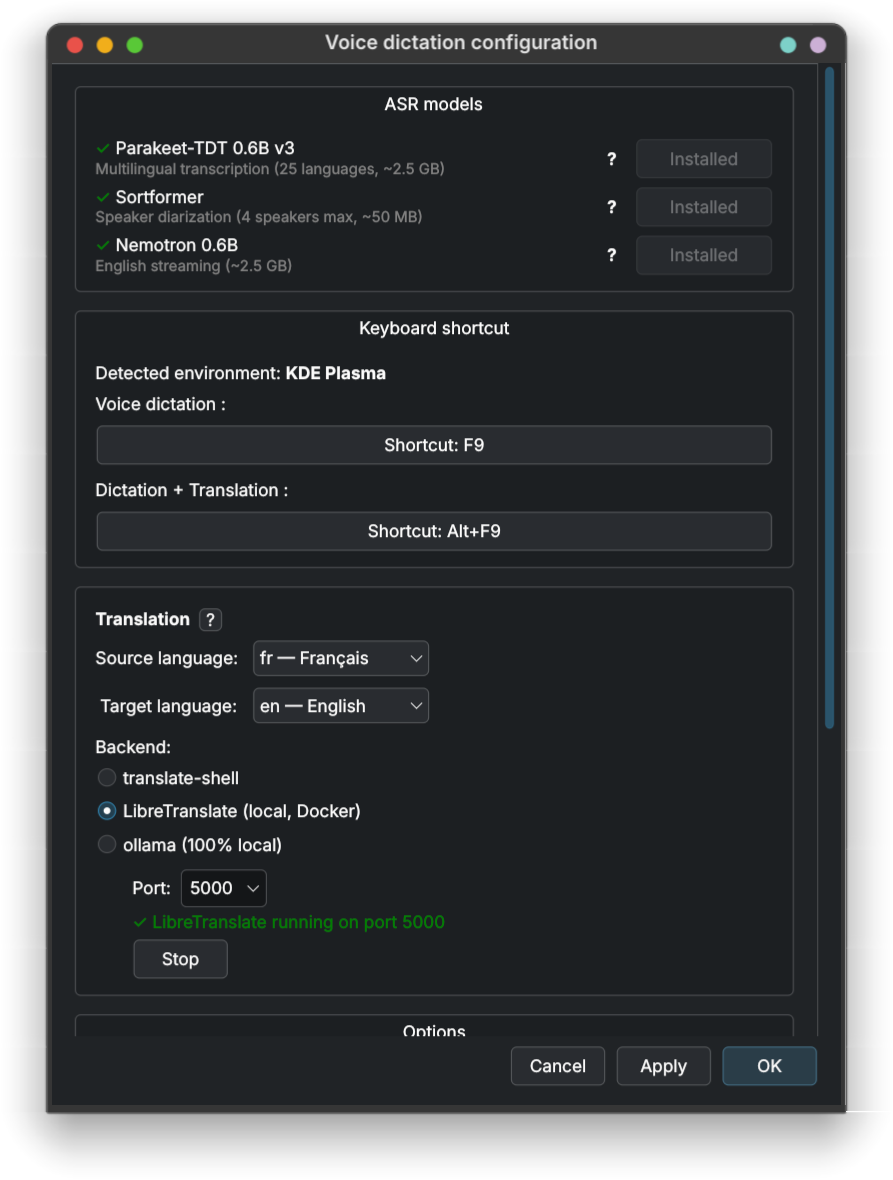
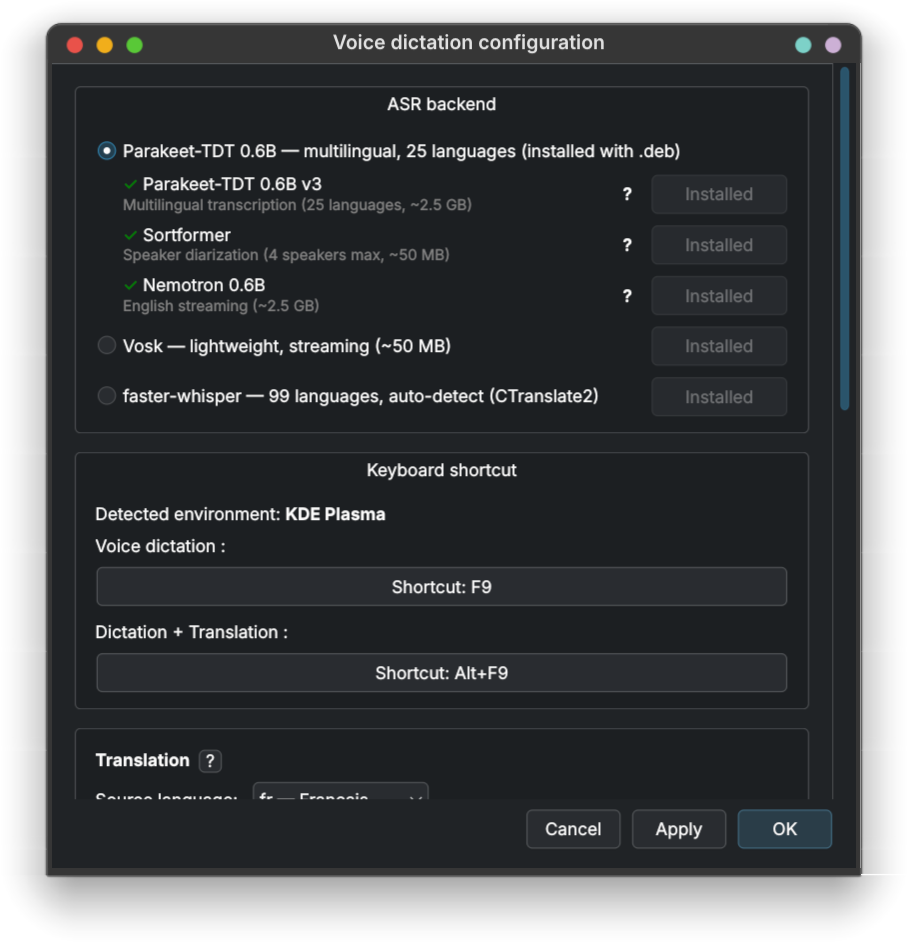
ui: intégrer modèles Parakeet sous le radio backend, masquer sous-options inactives
- Déplacer les modèles TDT/Sortformer/Nemotron sous le bouton radio Parakeet
- Masquer les sous-options Vosk/Whisper quand non sélectionnés
- Augmenter largeur minimale fenêtre (620→700)
- Mettre à jour screenshot anglaise

diff --git a/dictee-setup.py b/dictee-setup.py
@@ -954,8 +954,8 @@ class DicteeSetupDialog(QDialog):
     def __init__(self):
         super().__init__()
         self.setWindowTitle(_("Voice dictation configuration"))
-        self.setMinimumWidth(520)
-        self.resize(600, 650)
+        self.setMinimumWidth(620)
+        self.resize(700, 700)
         self.setWindowIcon(QIcon.fromTheme("audio-input-microphone"))
         self.de_name, self.de_type = detect_desktop()
         self._install_thread = None
@@ -976,53 +976,8 @@ class DicteeSetupDialog(QDialog):
         layout.setSpacing(16)
         layout.setContentsMargins(20, 20, 20, 16)
 
-        # -- Section modèles ASR --
-        grp_models = QGroupBox(_("ASR models"))
-        lay_mod = QVBoxLayout(grp_models)
-        lay_mod.setSpacing(6)
-        lay_mod.setContentsMargins(16, 16, 16, 12)
-
         self._model_widgets = {}
         self._model_threads = {}
-
-        for model in ASR_MODELS:
-            row = QHBoxLayout()
-            row.setSpacing(8)
-
-            installed = model_is_installed(model)
-            required = _(" (required)") if model["required"] else ""
-
-            lbl = QLabel()
-            icon = '<span style="color: green;">✓</span>' if installed \
-                else '<span style="color: orange;">⚠</span>'
-            line2 = model["desc"] + (required if not installed else "")
-            lbl.setText(f'{icon} {model["name"]}<br>'
-                        f'<span style="font-size: 9.5pt; color: gray;">{line2}</span>')
-            lbl.setWordWrap(True)
-            row.addWidget(lbl, 1)
-
-            btn_info = QPushButton("?")
-            btn_info.setFixedSize(24, 24)
-            btn_info.setToolTip(model["help"])
-            btn_info.setStyleSheet("font-weight: bold; border-radius: 12px;")
-            btn_info.clicked.connect(lambda checked, m=model: QMessageBox.information(
-                self, m["name"], m["help"]))
-            row.addWidget(btn_info)
-
-            btn = QPushButton(_("Download") if not installed else _("Installed"))
-            btn.setEnabled(not installed)
-            btn.setFixedWidth(120)
-            row.addWidget(btn)
-
-            lay_mod.addLayout(row)
-
-            progress = QProgressBar()
-            progress.setRange(0, 0)
-            progress.setVisible(False)
-            lay_mod.addWidget(progress)
-
-            self._model_widgets[model["id"]] = {"label": lbl, "button": btn, "progress": progress, "model": model}
-            btn.clicked.connect(lambda checked, m=model: self._on_model_download(m))
 
         # -- Section raccourci --
         grp_shortcut = QGroupBox(_("Keyboard shortcut"))
@@ -1086,8 +1041,6 @@ class DicteeSetupDialog(QDialog):
             lbl_unsup.setWordWrap(True)
             lay_sc.addWidget(lbl_unsup)
 
-        layout.addWidget(grp_models)
-
         # -- Section backend ASR --
         grp_asr = QGroupBox(_("ASR backend"))
         lay_asr = QVBoxLayout(grp_asr)
@@ -1105,6 +1058,47 @@ class DicteeSetupDialog(QDialog):
         self.asr_group.addButton(self.rb_parakeet)
         lay_asr.addWidget(self.rb_parakeet)
 
+        # Modèles Parakeet (indentés sous le radio)
+        for model in ASR_MODELS:
+            row = QHBoxLayout()
+            row.setSpacing(8)
+            row.setContentsMargins(24, 0, 0, 0)
+
+            installed = model_is_installed(model)
+            required = _(" (required)") if model["required"] else ""
+
+            lbl = QLabel()
+            icon = '<span style="color: green;">✓</span>' if installed \
+                else '<span style="color: orange;">⚠</span>'
+            line2 = model["desc"] + (required if not installed else "")
+            lbl.setText(f'{icon} {model["name"]}<br>'
+                        f'<span style="font-size: 9.5pt; color: gray;">{line2}</span>')
+            lbl.setWordWrap(True)
+            row.addWidget(lbl, 1)
+
+            btn_info = QPushButton("?")
+            btn_info.setFixedSize(24, 24)
+            btn_info.setToolTip(model["help"])
+            btn_info.setStyleSheet("font-weight: bold; border-radius: 12px;")
+            btn_info.clicked.connect(lambda checked, m=model: QMessageBox.information(
+                self, m["name"], m["help"]))
+            row.addWidget(btn_info)
+
+            btn = QPushButton(_("Download") if not installed else _("Installed"))
+            btn.setEnabled(not installed)
+            btn.setFixedWidth(120)
+            row.addWidget(btn)
+
+            lay_asr.addLayout(row)
+
+            progress = QProgressBar()
+            progress.setRange(0, 0)
+            progress.setVisible(False)
+            lay_asr.addWidget(progress)
+
+            self._model_widgets[model["id"]] = {"label": lbl, "button": btn, "progress": progress, "model": model}
+            btn.clicked.connect(lambda checked, m=model: self._on_model_download(m))
+
         # Vosk
         row_vosk = QHBoxLayout()
         self.rb_vosk = QRadioButton("Vosk — " + _("lightweight, streaming (~50 MB)"))
@@ -1121,8 +1115,9 @@ class DicteeSetupDialog(QDialog):
         lay_asr.addLayout(row_vosk)
 
         # Sous-options Vosk : choix de langue
-        self.vosk_options = QHBoxLayout()
-        self.vosk_options.setContentsMargins(24, 0, 0, 0)
+        self.w_vosk_options = QWidget()
+        vosk_lay = QHBoxLayout(self.w_vosk_options)
+        vosk_lay.setContentsMargins(24, 0, 0, 0)
         lbl_vosk_lang = QLabel(_("Language:"))
         self.cmb_vosk_lang = QComboBox()
         for code, name in VOSK_MODELS.items():
@@ -1131,10 +1126,11 @@ class DicteeSetupDialog(QDialog):
         idx = self.cmb_vosk_lang.findData(cur_vosk)
         if idx >= 0:
             self.cmb_vosk_lang.setCurrentIndex(idx)
-        self.vosk_options.addWidget(lbl_vosk_lang)
-        self.vosk_options.addWidget(self.cmb_vosk_lang)
-        self.vosk_options.addStretch()
-        lay_asr.addLayout(self.vosk_options)
+        vosk_lay.addWidget(lbl_vosk_lang)
+        vosk_lay.addWidget(self.cmb_vosk_lang)
+        vosk_lay.addStretch()
+        self.w_vosk_options.setVisible(current_asr == "vosk")
+        lay_asr.addWidget(self.w_vosk_options)
 
         # faster-whisper
         row_whisper = QHBoxLayout()
@@ -1152,8 +1148,9 @@ class DicteeSetupDialog(QDialog):
         lay_asr.addLayout(row_whisper)
 
         # Sous-options Whisper : choix modèle + langue
-        self.whisper_options = QHBoxLayout()
-        self.whisper_options.setContentsMargins(24, 0, 0, 0)
+        self.w_whisper_options = QWidget()
+        whisper_lay = QHBoxLayout(self.w_whisper_options)
+        whisper_lay.setContentsMargins(24, 0, 0, 0)
         lbl_wh_model = QLabel(_("Model:"))
         self.cmb_whisper_model = QComboBox()
         for m in WHISPER_MODELS:
@@ -1162,21 +1159,30 @@ class DicteeSetupDialog(QDialog):
         idx = self.cmb_whisper_model.findText(cur_wh)
         if idx >= 0:
             self.cmb_whisper_model.setCurrentIndex(idx)
-        self.whisper_options.addWidget(lbl_wh_model)
-        self.whisper_options.addWidget(self.cmb_whisper_model)
+        whisper_lay.addWidget(lbl_wh_model)
+        whisper_lay.addWidget(self.cmb_whisper_model)
         lbl_wh_lang = QLabel(_("Language:"))
         self.txt_whisper_lang = QComboBox()
         self.txt_whisper_lang.setEditable(True)
         self.txt_whisper_lang.addItems(["", "fr", "en", "es", "de", "it", "pt", "ru", "zh", "ja", "ko", "ar"])
         cur_wl = self.conf.get("DICTEE_WHISPER_LANG", "")
         self.txt_whisper_lang.setCurrentText(cur_wl)
-        self.whisper_options.addWidget(lbl_wh_lang)
-        self.whisper_options.addWidget(self.txt_whisper_lang)
+        whisper_lay.addWidget(lbl_wh_lang)
+        whisper_lay.addWidget(self.txt_whisper_lang)
         lbl_auto = QLabel(_("(empty = auto-detect)"))
         lbl_auto.setStyleSheet("color: gray;")
-        self.whisper_options.addWidget(lbl_auto)
-        self.whisper_options.addStretch()
-        lay_asr.addLayout(self.whisper_options)
+        whisper_lay.addWidget(lbl_auto)
+        whisper_lay.addStretch()
+        self.w_whisper_options.setVisible(current_asr == "whisper")
+        lay_asr.addWidget(self.w_whisper_options)
+
+        # Afficher/masquer les sous-options selon le backend sélectionné
+        def _on_asr_toggled():
+            self.w_vosk_options.setVisible(self.rb_vosk.isChecked())
+            self.w_whisper_options.setVisible(self.rb_whisper.isChecked())
+        self.rb_parakeet.toggled.connect(lambda: _on_asr_toggled())
+        self.rb_vosk.toggled.connect(lambda: _on_asr_toggled())
+        self.rb_whisper.toggled.connect(lambda: _on_asr_toggled())
 
         layout.addWidget(grp_asr)
 
